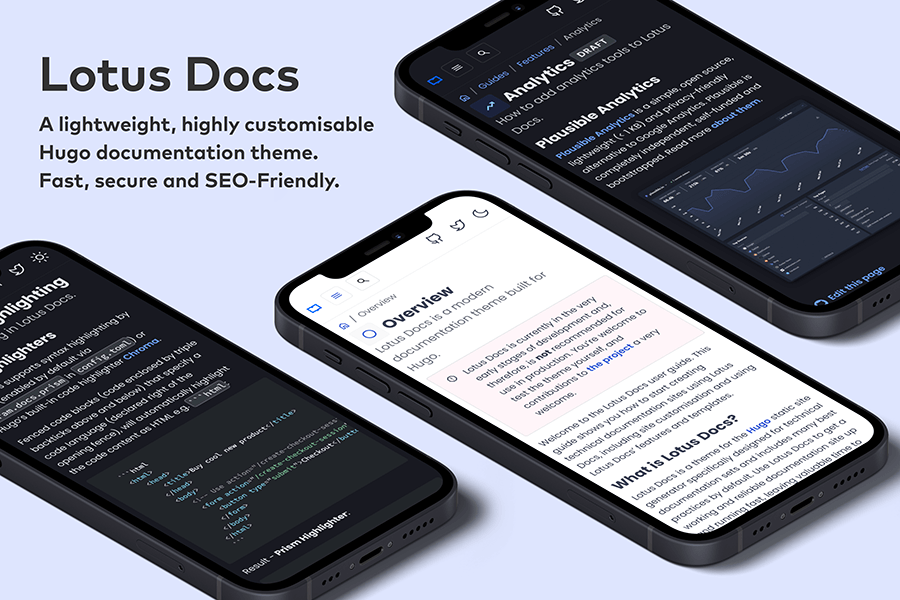
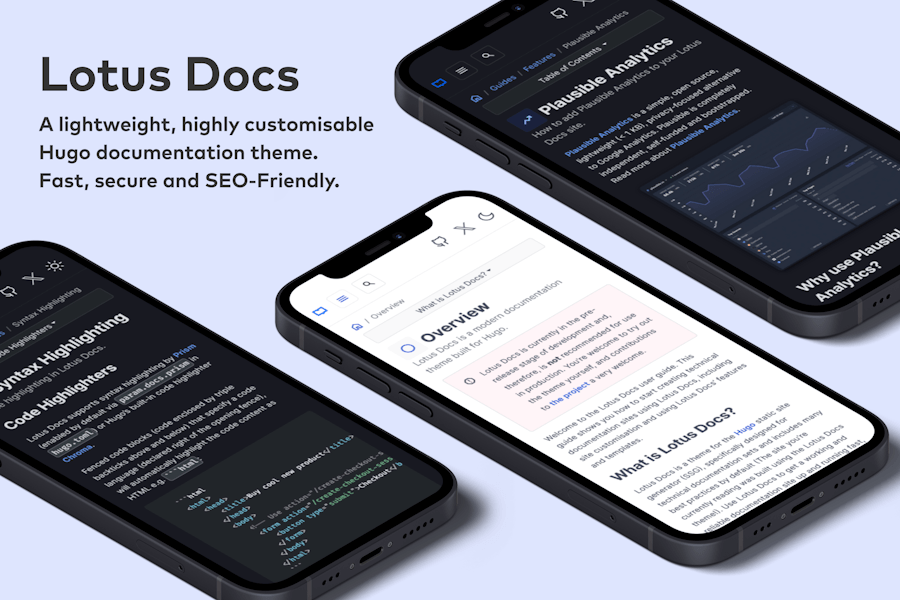
📄 README.md update 🎨 minor list card update [WIP]

diff --git a/layouts/docs/list.html b/layouts/docs/list.html
@@ -4,9 +4,10 @@
         <div id="list-item" class="col-md-4 col-12 mt-4 pt-2">
             <a class="text-decoration-none text-reset" href="{{ .Permalink }}">
                 <div class="card h-100 features feature-full-bg rounded p-4 position-relative overflow-hidden border-1">
-                    <span class="h1 icon-color">
+                    <span class="icon-color d-flex my-3">
                         <i class="material-icons align-middle">{{- .Params.icon | default "article" }}</i>
-                        {{ if .Draft }}<span class="badge bg-default fs-6 align-middle">DRAFT</span>{{ end }}
+                        {{ if .Draft }}<span class="badge bg-default ms-2 fs-6 align-middle">DRAFT</span>{{ end }}
+                        {{ if .IsSection }}<i class="material-icons icon-faint align-middle ms-auto" title="Directory">folder</i>{{ end }}
                     </span>
                     <div class="card-body p-0 content">
                         <p class="fs-5 fw-semibold card-title mb-1">{{ .Title }}</p>

diff --git a/assets/docs/scss/custom/pages/_features.scss b/assets/docs/scss/custom/pages/_features.scss
@@ -4,11 +4,13 @@
 
 :root {
     --feature-icon-color: var(--primary);
+    --feature-icon-faint: var(--gray-300);
     --feature-link-hover-bg-color: var(--primary);
 }
 
 [data-dark-mode] {
     --feature-icon-color: var(--primary-300);
+    --feature-icon-faint: var(--gray-800);
     --feature-link-hover-bg-color: var(--gray-900);
 }
 
@@ -45,6 +47,9 @@
     &.feature-full-bg {
         .icon-color {
             color: var(--feature-icon-color) !important;
+        }
+        .icon-faint {
+            color: var(--feature-icon-faint) !important;
         }
         &:hover {
             background-color: var(--feature-link-hover-bg-color) !important;

diff --git a/README.md b/README.md
@@ -2,7 +2,7 @@
 
 [Lotus Docs](https://lotusdocs.dev) is an easily updated and customisable [Hugo](https://gohugo.io/) theme for building fast, secure, and SEO-friendly documentation sites.
 
-![Lotus Docs Banner](https://res.cloudinary.com/lotuslabs/image/upload/v1688223320/Lotus%20Docs/Social%20Media/lotus_docs_banner_mockup_v1.1_rounded_glwogb.webp)
+![Lotus Docs Banner](https://res.cloudinary.com/lotuslabs/image/upload/v1693340144/Lotus%20Docs/Social%20Media/lotus-docs-screenshot_hugo-themes-website_v2_3200x1800_rd_m9y7xh.webp)
 
 Check out the demo site [https://lotusdocs.dev/docs/](https://lotusdocs.dev/docs/) (also doubles as the documentation guide for Lotus Docs 📖)
 
@@ -15,7 +15,7 @@ Check out the demo site [https://lotusdocs.dev/docs/](https://lotusdocs.dev/docs
 * [x] Fast, Accessible and SEO-Friendly (4 x 💯 scores on [Google Lighthouse](https://pagespeed.web.dev/)!)
 * [x] Secure by default
 * [x] Built on Bootstrap 5
-* [x] Deploy on [Vercel](https://vercel.com/) with multiple options
+* [x] Deploy on [GitHub Pages](https://pages.github.com/), [GitLab Pages](https://about.gitlab.com/stages-devops-lifecycle/pages/), [Vercel](https://vercel.com/), [Netlify](https://netlify.com), or [Cloudflare Pages](https://pages.cloudflare.com/)
 * [x] Multilingual support (i18n)
 * [x] Powerful Syntax Highlighting via [Prism.js](https://prismjs.com/)
 * [x] Dark Mode
